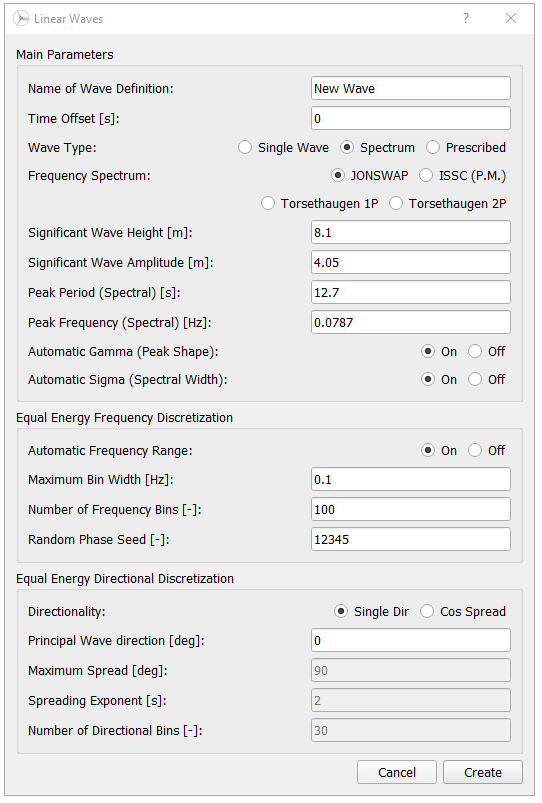
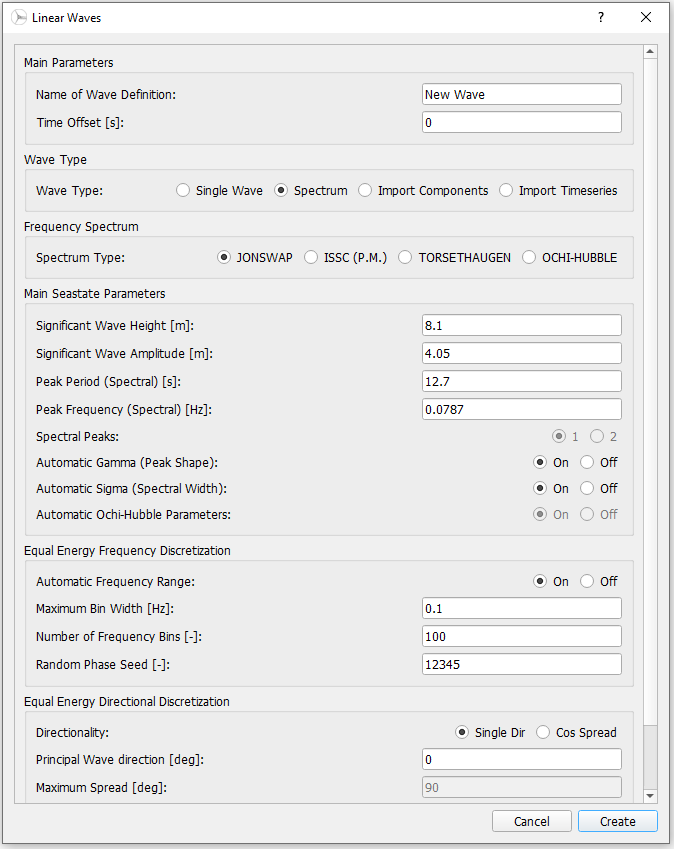
- Reviewed Wave Generation Module in User Guide

Changed region(s): [[0.0, 0.0, 1.0, 1.0], [0.4133, 0.2179, 0.5314, 0.2491]]

diff --git a/docs/source/src/user/wavefield/wavefield.rst b/docs/source/src/user/wavefield/wavefield.rst
@@ -1,31 +1,26 @@
 Ocean Wave Generator
 ====================
 
-If an offshore simulation with the consideration of wave excitation is being carried out, it is necessary to provide the information about the sea sate in form of
+If an offshore simulation where the consideration of wave excitation is being carried out, it is necessary to provide the information about the sea sate in the form of
 a wave field. The field may either consist of a single wave train (regular wave) or multiple, superpositioned regular waves - (irregular waves). Both types may be generated
-directly in QBlade. A third possibility is the definition of a prescribed sea state, allowing to import externally generated wave fields. The three functionalities are described
-in more detailed below. The underlying theory implemented in QBlade is described in :ref:`Sea`.
+directly in QBlade. A third possibility is the definition of a prescribed sea state, allowing the user to import externally generated wave fields. The three functionalities are described
+in more detailed below. The underlying theory implemented in QBlade is described in the :ref:`Sea` section of the theory guide.
 
-Any wave field generated in QBlade requires that a new wave is created in the *Controls* box. In the opening dialogue, the *Linear Waves* dialogue, the wave is characterized in three parameter
-boxes. In the Main Parameters box, the wave train is defined (amplitude and frequency). The Equal Energy Frequency Discretization box allows to tune the discretization parameters of the energy spectrum. Finally, the Equal Energy Directional
-Discretization box lets the user define directional properties of the wave
+Any wave field generated in QBlade requires that a new wave is created by selecting this option in the *Controls* box. 
+This opens the *Linear Waves* dialogue, where the wave generation options are displayed. 
+In the *Main Seastate Parameters* box, the wave train is defined (amplitude and frequency). 
+The *Equal Energy Frequency Discretization* box allows the user to tune the discretization parameters of the energy spectrum. 
+Finally, the *Equal Energy Directional Discretization* box lets the user define directional properties of the wave.
 
 Regular Wave
 ------------
-To generate a regular wave, the wave type *Single Wave* has to be chosen in the *Linear Waves* dialogue. The user is now given the option to characterize the single wave train with the
-remaining available inputs. Mainly defining the shape of the airy wave and the direction.
-
-.. _fig-regwave:
-.. figure:: regwave_dialogue.png
-    :align: center
-    :scale: 70%
-    :alt: Regular wave creation dialogue in QBlade.
-
-    Definition of a single regular wave in the Ocean Wave Generator.
+To generate a regular wave, the wave type *Single Wave* has to be chosen in the *Linear Waves* dialogue. 
+The user now has the option to characterize the single wave train with the remaining available inputs. 
+These parameters define the shape and direction of an Airy wave (see :ref:`Linear Wave Theory`).
 
 Main Parameters
 
-* **Time Offset**: time shift of the generated wave signal.
+* **Time Offset**: Time shift of the generated wave signal.
 * **Significant Wave Height**: Height of wave train to be generated (directly linked to amplitude).
 * **Significant Wave Amplitude**: Amplitude of the wave (directly linked to wave height).
 * **Peak Period**: Period of the wave (directly linked to wave frequency).
@@ -38,7 +33,7 @@ Equal Energy Directional Discretization:
 Irregular Wave Field
 --------------------
 To generate an irregular wave field, the wave type *Spectrum* has to be chosen. The user is now given the option to characterize the wave field
-with the remaining available inputs. Additionally, to the wave train characterization discussed above, spectra discretization options can be selected.
+with the remaining available inputs. In addition to the wave train characterization discussed above, spectra discretization options can be specified.
 
 .. _fig-irregwave_user:
 .. figure:: irregwave_dialogue.png
@@ -73,21 +68,37 @@ Either a unidirectional irregular wave field (Single Dir) or multidirectional wa
 * **Number of Directional Bins**: Resolution of angular discretization of the directional spectrum.
 
 
-Prescribed Wave Field
----------------------
-If the simulation should contain wave information of a pre-defined wavefield, the type *Prescribed* has to be chosen. Via the appearing button *Load Wave File* a ``.txt`` file containing the
-wave train information may be imported.  This file must contain `Frequency [Hz]`, `Amplitude [m]`, `Phase [deg]` and  `Direction [deg]` information of the airfoil in four columns.
-Once loaded in, the button *View Wave File* appears allowing to check the correctness of imported data.
+Import Components
+-----------------
+By selecting this option the user can import a wave field using wave train data.
+when this option is selected a button appears *Load Wave File* which allows the user to import a ``.txt`` file containing the wave train information.  
+This file must contains frequency [Hz], amplitude [m], phase [deg] and direction [deg] information of the wavefield in four columns. 
+This data represents the frequency domain information of the wave. This is inverse Fourier-transformed in order to specify a time-series of the wave data.
+Once calculated, the button *View Wave File* appears allowing the user to visually check the imported data.
+
+Import Timeseries
+-----------------
+By selecting this option the user can import a wave field using a time series of the wave height. 
+A discrete Fourier transform (DFT) is applied to the timeseries in order to represent the data in the frequency domain.
+An inverse Fourier transform (IFT) is then applied to the Fourier coefficient in order to recreate the time-series data.
+A set of parameters must be specified for the DFT which allows the user to improve the representation of the timeseries.
+These parameters include:
+
+* **Cut-in Frequency**: The minimum frequency considered in the IFT, below which data is discarded (approximately low-pass filtering). 
+* **Cut-out Frequency**: The maximum frequency considered in the IFT, above which data is discarded (approximately high-pass filtering). 
+* **Signal Sampling Rate**: The frequency with which data from the time series is sampled in order to generate the DFT. This allows the user to reduce the size of the wave train data. 
+* **Amplitude Threshold**: The maximum amplitude allowed in the IFT. This allows the user to avoid spurious large amplitude wave trains from occuring.
 
 Visualization
 -------------
-After a wave field has been created, visual and quantitative evaluation can be carried out in the *3D* View or *Graph View* display window. A time resolved animation of
-the wave field can be carried out in the *Time control* box.
+After a wave field has been created, visual and quantitative evaluation can be carried out in the *3D* View or *Graph View* display window. 
+A time resolved animation of the wave field can be carried out in the *Time control* box.
 
 Import and Export Functionality
 -------------------------------
-QBlade allows to import and export wave fields either in the four column format described in :ref:`Prescribed Wave Field` or in a ``.Iwa`` format. This functionality
-can be found in the menu toolbar below the *Wave* tab.
+QBlade allows the user to import and export wave fields either in the four column format described in :ref:`Import Components` or in a ``.Iwa`` format. 
+The ``.Iwa`` format contains all of the parameters necessary to define the time and frequency domain descriptions of a wave field.
+This functionality can be found in the menu toolbar below the *Wave* tab.
 
 .. _fig-vis:
 .. figure:: demo_wavefield.png

diff --git a/docs/source/src/theory/environment/sea/linear_waves.rst b/docs/source/src/theory/environment/sea/linear_waves.rst
@@ -1,7 +1,7 @@
 Linear Wave Theory
 ==================
 
-Linear wave theory (also referred to as airy waves in the literature) may be applied when the sea water is assumed to be incompressible,
+Linear wave theory (also referred to as Airy waves in the literature) may be applied when the sea water is assumed to be incompressible,
 inviscid and the fluid motion is irrotational. In addition to this is it assumed that the wave steepness is very small. Subsequently,
 a velocity potential can be used to describe the velocity vector (u,v,w) of a water particle at an arbitrary position (x,y,z) at any time (t) :footcite:t:`Faltinsen1993`.
 Following these assumptions, the linear wave model in QBlade is implemented through the following set of equations. The velocity potential for finite depth
